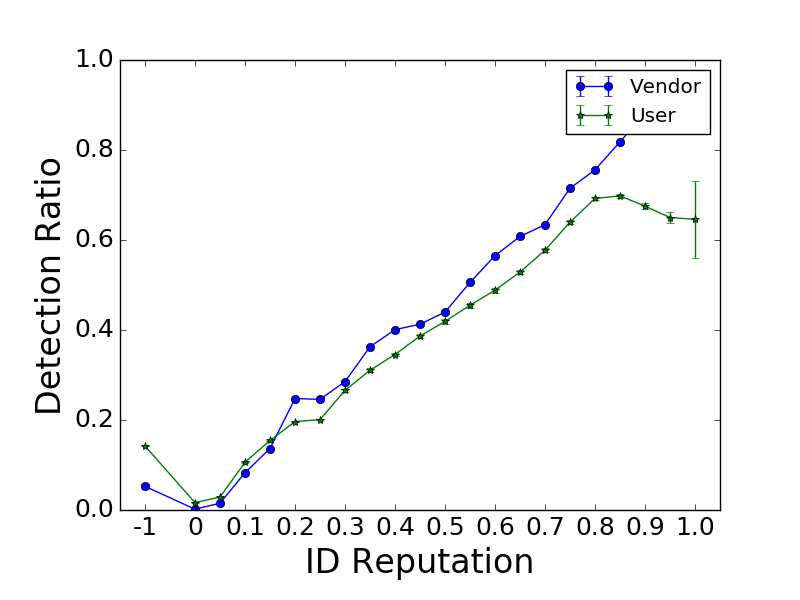
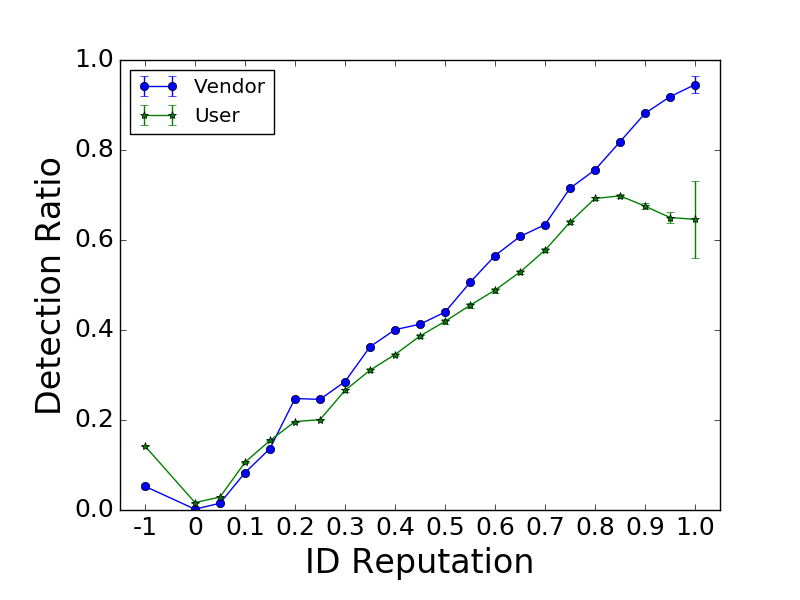
update figure 11

Changed region(s): [[0.6875, 0.09, 0.9062, 0.24], [0.1562, 0.09, 0.3438, 0.24]]

diff --git a/eurosys2017/figure/IDReputation.py b/eurosys2017/figure/IDReputation.py
@@ -82,7 +82,7 @@ if __name__ == '__main__':
 	labels[1] = '-1'
 	labels[2] = '0'
 
-	legend = ax.legend(loc='upper right', fontsize='large')
+	legend = ax.legend(loc='upper left', fontsize='large')
 
 	ax.set_xticklabels(labels)
 
